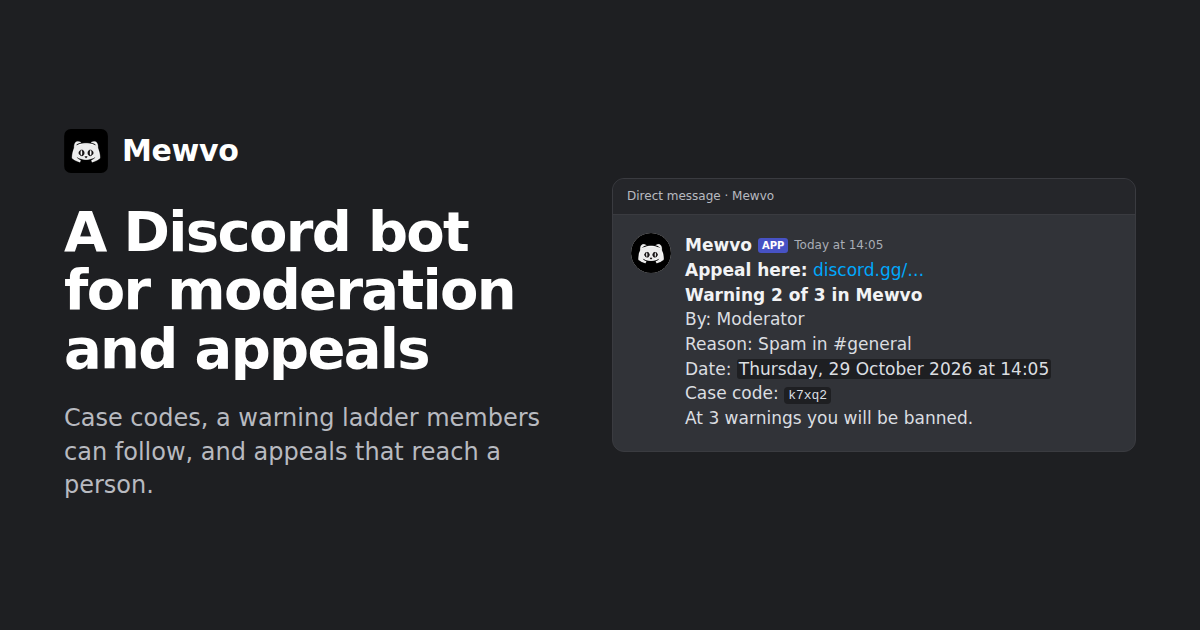
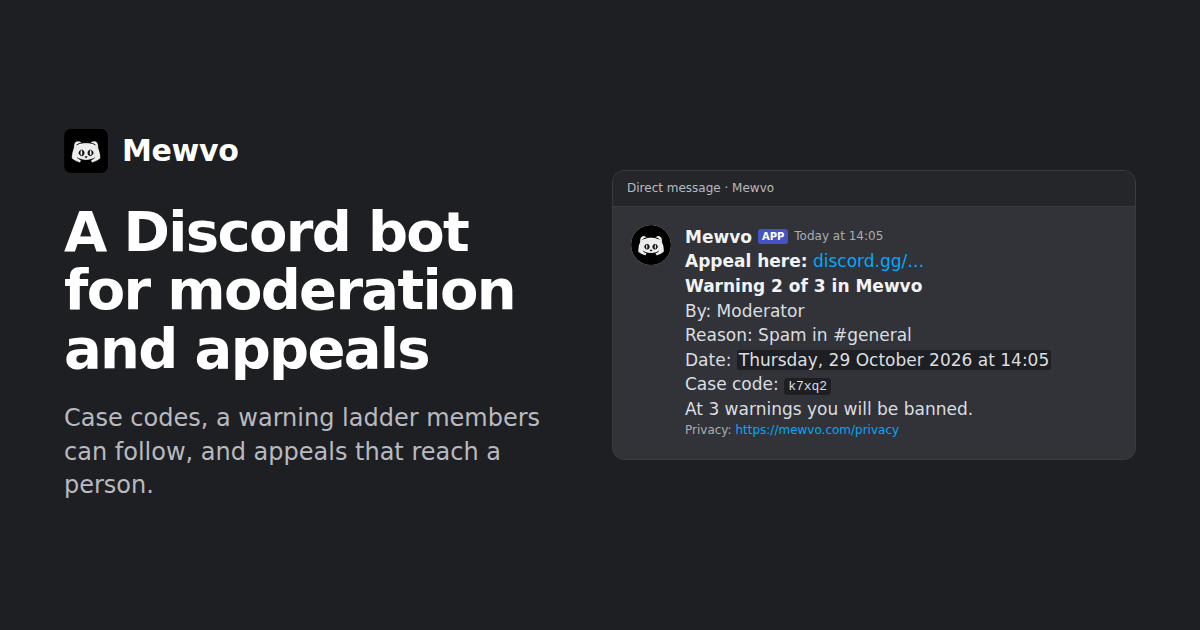
Website mockups: punishment DMs end with the privacy line like the real DMs; new share image

Changed region(s): [[0.5242, 0.3619, 0.8942, 0.6937], [0.5242, 0.2714, 0.6475, 0.3317]]

diff --git a/src/services/site/pages/mockups.js b/src/services/site/pages/mockups.js
@@ -35,6 +35,8 @@ function dmParts(ctx) {
         stamp: (text) => html`<span class="dc-stamp">${text}</span>`,
         date: (text) => html`<p>${ti('mockups.dm.date', { date: html`<span class="dc-stamp">${text}</span>` })}</p>`,
         caseCode: (code) => html`<p>${ti('mockups.dm.caseCode', { code: html`<code class="dc-code">${code}</code>` })}</p>`,
+        // Last line of every real punishment DM (dmTemplates.withPrivacyLine, Discord "-#" small text).
+        privacy: html`<p class="dc-sub">${ti('mockups.dm.privacy', { url: html`<span class="dc-link">${ctx.origin || 'https://mewvo.com'}/privacy</span>` })}</p>`,
     };
 }
 
@@ -48,7 +50,8 @@ export function warnDmMock(ctx = {}, { caption = '' } = {}) {
 <p>${t('mockups.warnDm.reason')}</p>
 ${dm.date(t('mockups.warnDm.dateValue'))}
 ${dm.caseCode('k7xq2')}
-<p>${t('mockups.warnDm.limit')}</p>`), { className: 'mock-dm', caption });
+<p>${t('mockups.warnDm.limit')}</p>
+${dm.privacy}`), { className: 'mock-dm', caption });
 }
 
 /** The automatic 7-day ban on the third warning: dmTemplates.banDm for a ladder ban. */
@@ -62,7 +65,8 @@ export function banDmMock(ctx = {}, { caption = '' } = {}) {
 ${dm.date(t('mockups.banDm.dateValue'))}
 <p>${ti('mockups.banDm.duration', { end: dm.stamp(t('mockups.banDm.endValue')), relative: dm.stamp(t('mockups.banDm.relativeValue')) })}</p>
 ${dm.caseCode('w8hd3a')}
-<p>${t('mockups.banDm.ladderNote')}</p>`, { time: t('mockups.banDm.time') }), { className: 'mock-dm', caption });
+<p>${t('mockups.banDm.ladderNote')}</p>
+${dm.privacy}`, { time: t('mockups.banDm.time') }), { className: 'mock-dm', caption });
 }
 
 /** The appeal form: appealsHandler.appealModal. */

diff --git a/src/services/site/static/site.css b/src/services/site/static/site.css
@@ -228,6 +228,7 @@ button.button { cursor: pointer; }
 .dc-field { margin-bottom: 16px; }
 .dc-field-label { font-size: 14px; font-weight: 600; color: var(--dc-head); }
 .dc-req { color: var(--dc-danger); }
+.dc-sub { font-size: 12px; color: var(--dc-muted); }
 .dc-field-help { font-size: 13px; color: var(--dc-muted); margin-bottom: 8px !important; }
 .dc-input { min-height: 40px; padding: 9px 12px; border-radius: 8px; background: var(--dc-input); font-size: 15px; }
 .dc-input-tall { min-height: 84px; }
